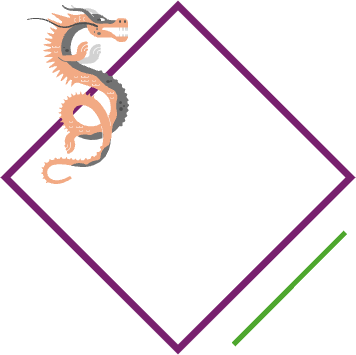
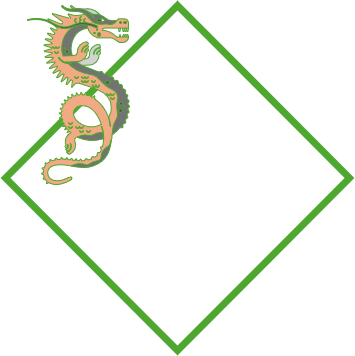
modified dragon sprites for variants so that it is more obvious

Changed region(s): [[0.0, 0.0, 1.0, 1.0], [0.6507, 0.6507, 0.9915, 0.9915]]

diff --git a/Sprint2_Game/main.py b/Sprint2_Game/main.py
@@ -22,9 +22,14 @@ if __name__ == "__main__":
     pygame.display.set_caption("Fiery Dragons: Shen Jiang")
 
     # ============= GAME CONFIG ==============
-    playable_characters: list[PlayableCharacter] = [Dragon(PlayableCharacterVariant.BLUE), Dragon(PlayableCharacterVariant.GREEN), Dragon(PlayableCharacterVariant.ORANGE), Dragon(PlayableCharacterVariant.PURPLE)]
     tiles: list[Tile] = normal_tiles_in_animal_sequence(24)
     chit_cards: list[ChitCard] = animal_chit_cards_in_animal_sequence(16)
+    playable_characters: list[PlayableCharacter] = [
+        Dragon(PlayableCharacterVariant.BLUE),
+        Dragon(PlayableCharacterVariant.GREEN),
+        Dragon(PlayableCharacterVariant.ORANGE),
+        Dragon(PlayableCharacterVariant.PURPLE),
+    ]
     starting_tiles: list[Tile] = [
         CaveTile(Animal.BABY_DRAGON, character=playable_characters[0]),
         CaveTile(Animal.SALAMANDER, character=playable_characters[1]),
